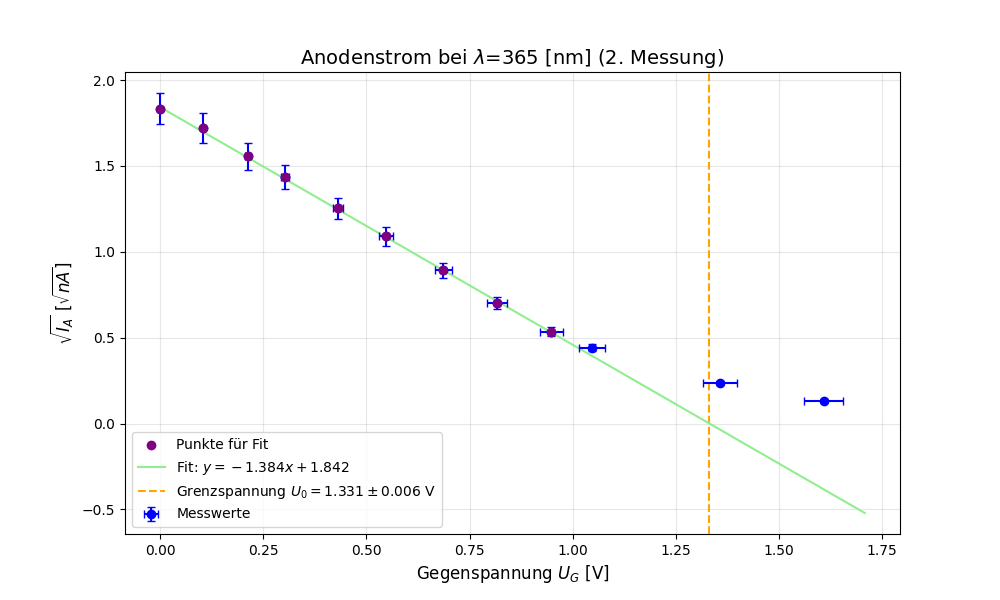
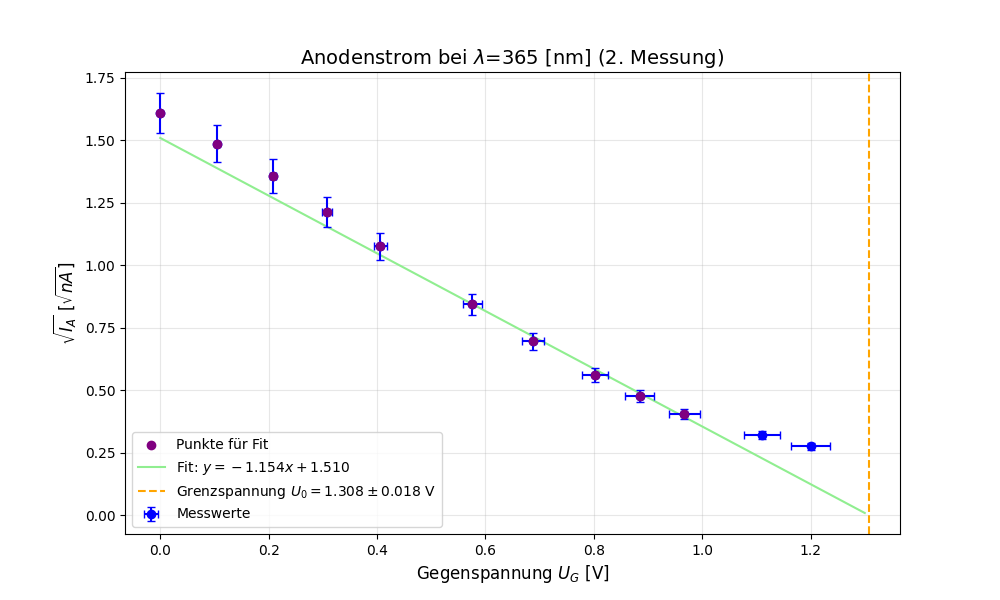
modified:   402/PWQ.py 	modified:   402/Plots/PWQ/365_1.png 	modified:   402/Plots/PWQ/365_2.png 	modified:   402/Plots/PWQ/365_4.png 	modified:   402/Plots/PWQ/546_1.png 	modified:   402/Plots/PWQ/546_2.png 	modified:   402/Plots/PWQ/FinalerPlot.pdf

diff --git a/402/PWQ.py b/402/PWQ.py
@@ -15,7 +15,7 @@ def linear(x, a, b):
 LambdaListe = np.array([546, 365, 365, 365, 365, 405, 405, 436, 436, 578, 578, 546])
 
 
-NamenListe = ['546_1', '365_1', '365_2', '365_3', '365_4', '405_1', '405_2', '436_1', '436_2', '578_1', '578_2', '546_2']
+NamenListe = ['546_2', '365_4', '365_1', '365_3', '365_2', '405_1', '405_2', '436_1', '436_2', '578_1', '578_2', '546_1']
 
 
 U_G_list = [[0.492,0.391,0.297,0.248,0.18,0.125,0.078,0.026,0.],
@@ -85,12 +85,12 @@ for i in range(len(LambdaListe)):
     weights = 1 / fit_sqrt_I_A_error**2  # Gewichtung nach Fehlern
     fit_params, cov_matrix = np.polyfit(fit_U_G, fit_sqrt_I_A, 1, w=weights, cov=True)
     fit_line = np.poly1d(fit_params)
-
+    fit_error = np.sqrt(np.diag(cov_matrix))
     # Nullstelle (Grenzspannung U_0) und Fehler
-    U_0_Test = -fit_params[1] / fit_params[0]
+    U_0 = -fit_params[1] / fit_params[0]
     U_0_error = np.sqrt((cov_matrix[1, 1] / fit_params[0]**2) +((fit_params[1]**2 * cov_matrix[0, 0]) / fit_params[0]**4) -(2 * fit_params[1] * cov_matrix[0, 1] / fit_params[0]**3))#np.sqrt(np.diag(cov_matrix)[0])
  
-    U0List.append(U_0_Test)
+    U0List.append(U_0)
     U0ListErr.append(U_0_error)
     
     # Berechnung des reduzierten Chi-Quadrat-Wertes
@@ -111,7 +111,7 @@ for i in range(len(LambdaListe)):
     x_fit = np.linspace(0, np.max(U_G) + 0.1, 100)
     plt.plot(x_fit, fit_line(x_fit), label=f'Fit: $y = {fit_params[0]:.3f}x + {fit_params[1]:.3f}$', color='lightgreen', zorder=4)
     # Nullstelle markieren
-    plt.axvline(U_0_Test, color='orange', linestyle='--', label=f'Grenzspannung $U_0 = {U_0_Test:.3f} \pm {U_0_error:.3f}$ V')
+    plt.axvline(U_0, color='orange', linestyle='--', label=f'Grenzspannung $U_0 = {U_0:.3f} \pm {U_0_error:.3f}$ V')
 
     # Plot-Details
     plt.title(f'Anodenstrom bei $\lambda$={LambdaListe[i]} [nm] ({NamenListe[i][-1:]}. Messung) ', fontsize=14)
@@ -126,8 +126,10 @@ for i in range(len(LambdaListe)):
 
     # Diagramm anzeigen
     plt.show
-
-    # Ergebnisse ausgeben
+    Print = (f'{LambdaListe[i]} & {NamenListe[i][-1:]} & {fit_params[0]:.3f} $\pm$ {fit_error[0]:.3f} & {fit_params[1]:.3f} $\pm$ {fit_error[1]:.3f} & {U_0:.3f} $\pm$ {U_0_error:.3f} & {chisq:.3f} & {chisq_red:.3f} \\\\')
+    Print = Print.replace('.', ',')
+    print(Print)
+    
     # print(f"Die Grenzspannung U_0 beträgt: {U_0:.3f} ± {U_0_error:.3f} V")
     # print(f"Chi-Quadrat-Wert: {chisq:.3f}")
     # print(f"Reduziertes Chi-Quadrat: {chisq_red:.3f}")
@@ -163,6 +165,13 @@ h_error = h_over_e_error * e
 W_A = W_A_over_e * e  # W_A = -(b/e) * e
 W_A_error = W_A_over_e_error * e
 
+
+# Chi-Quadrat Berechnung
+residuals = U0 - linear(frequencies, *popt)  # Abweichungen zwischen Messwerten und Fit
+chi_squared = np.sum((residuals / U0_errors) ** 2)  # Chi^2-Wert
+reduced_chi_squared = chi_squared / (len(U0) - len(popt))  # Reduzierter Chi^2-Wert
+
+
 # Plot
 plt.figure(figsize=(10, 6))
 plt.errorbar(frequencies, U0, yerr=U0_errors, fmt='o', label='Messdaten', color='blue', capsize=3)
@@ -186,3 +195,7 @@ print()
 print("Berechnete Werte:")
 print(f"Plancksche Konstante h: {h:.3e} ± {h_error:.3e} J·s")
 print(f"Austrittsarbeit W_A: {W_A:.3e} ± {W_A_error:.3e} J")
+print()
+print("Statistische Auswertung:")
+print(f"Chi-Quadrat-Wert (χ²): {chi_squared:.3f}")
+print(f"Reduzierter Chi-Quadrat-Wert (χ²_red): {reduced_chi_squared:.3f}")
